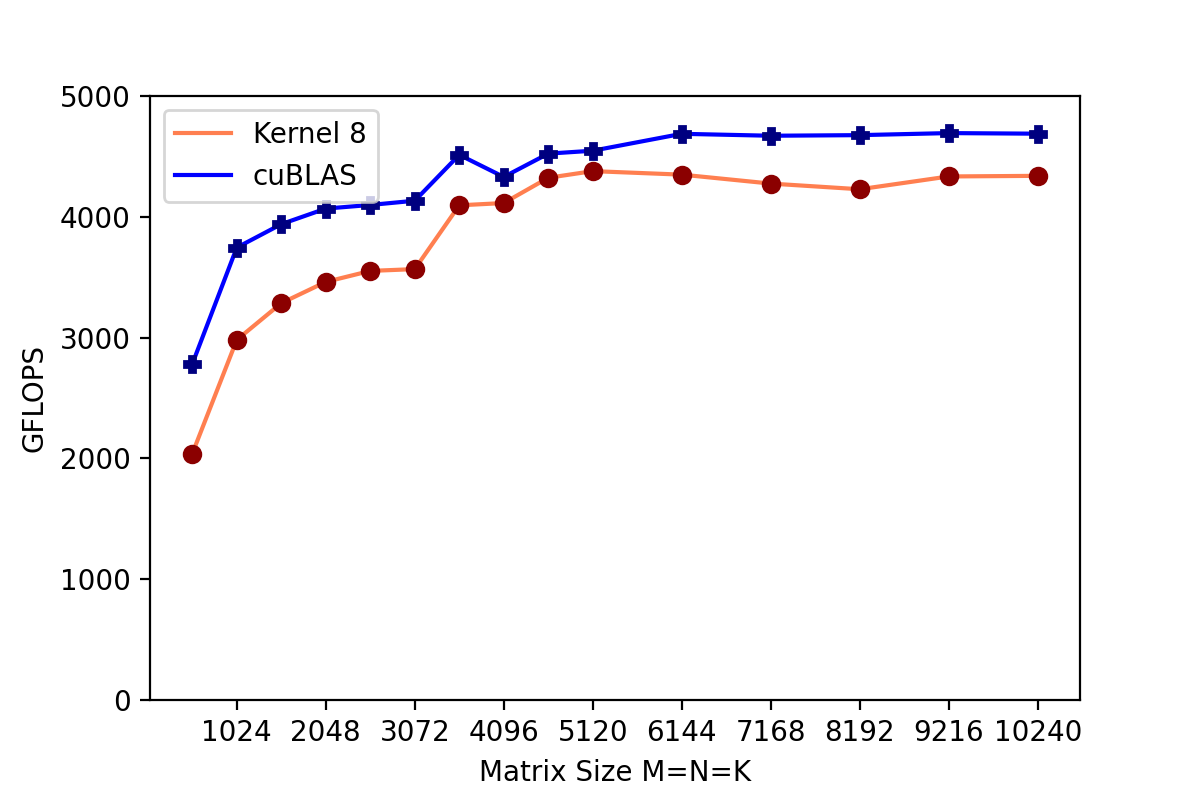
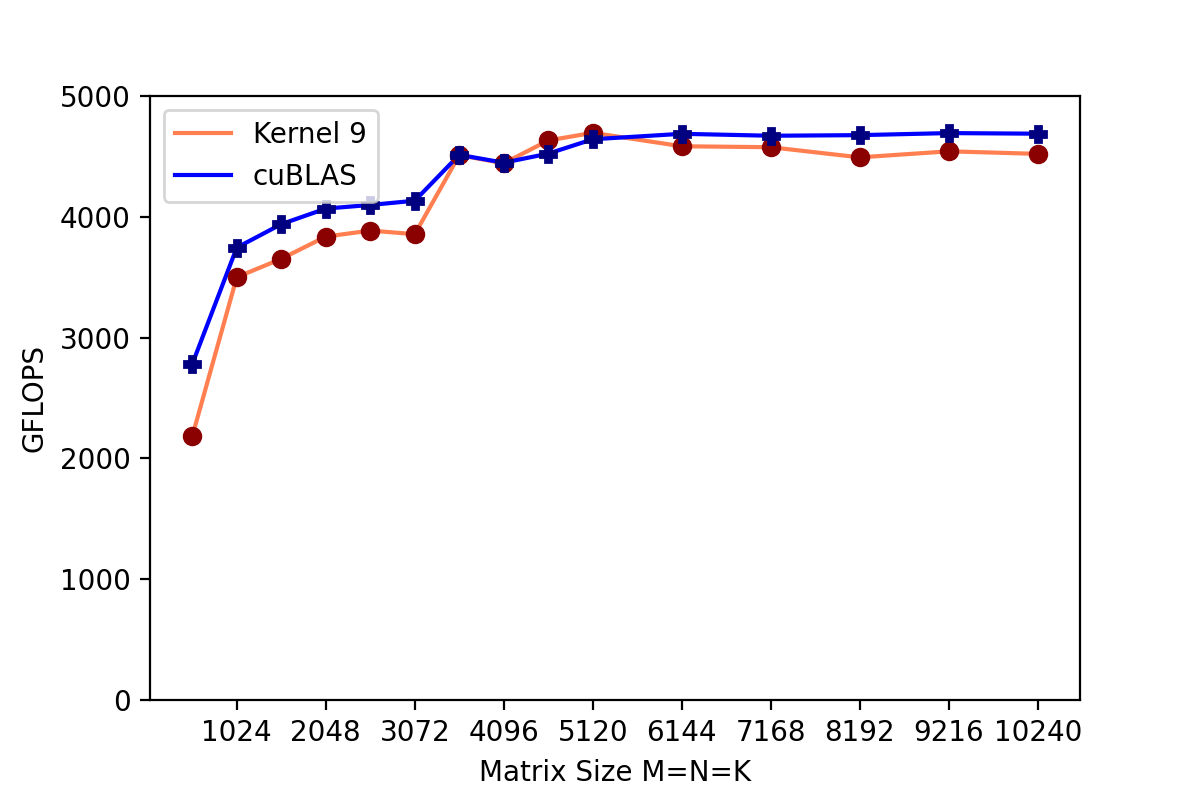
Add results for kernel 9

Changed region(s): [[0.1542, 0.1562, 0.8942, 0.5938], [0.2775, 0.1562, 0.3083, 0.1875]]

diff --git a/README.md b/README.md
@@ -1,6 +1,6 @@
 ## Optimize SGEMM on Nvidia GPU
 
-This repo contains several implementations of SGEMM on GPU. I tried different optimization techniques, such as iling, register blocking, prefetching, etc. The best implementation is `sgemm_header_file/kernel8.cuh`, and its result is shown below. 
+This repo contains several implementations of SGEMM on GPU. I tried different optimization techniques, such as iling, register blocking, prefetching, etc. The best implementation is `sgemm_header_file/kernel9.cuh`, and its result is shown below. 
 
 ## Test Environment
 System: Ubuntu 20.04 under WSL2
